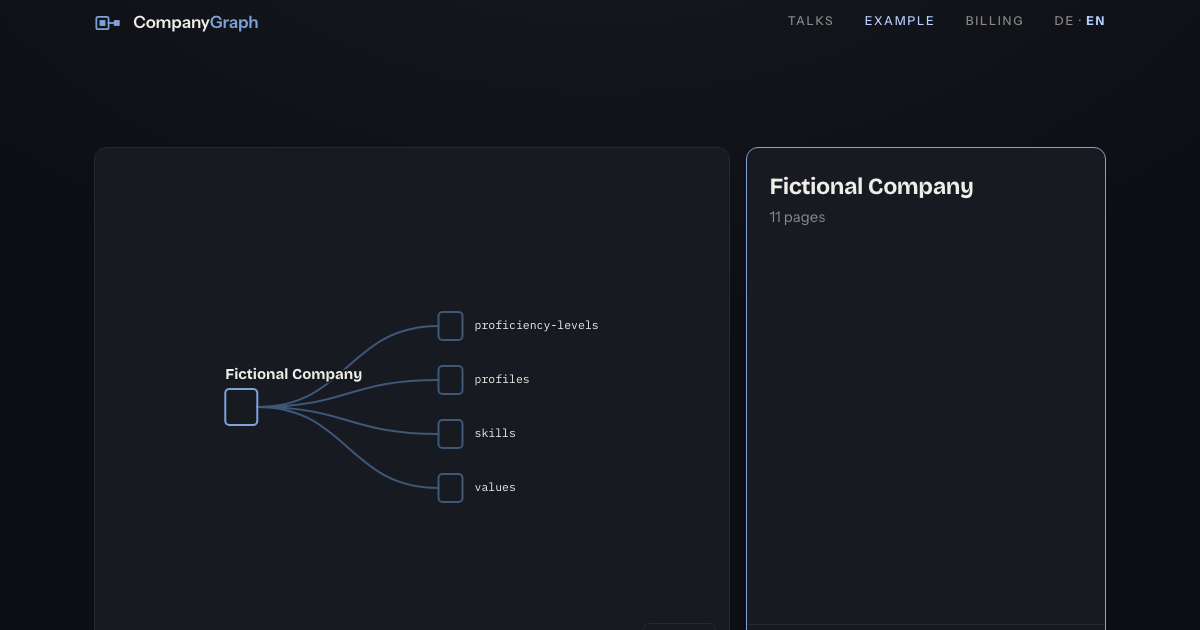
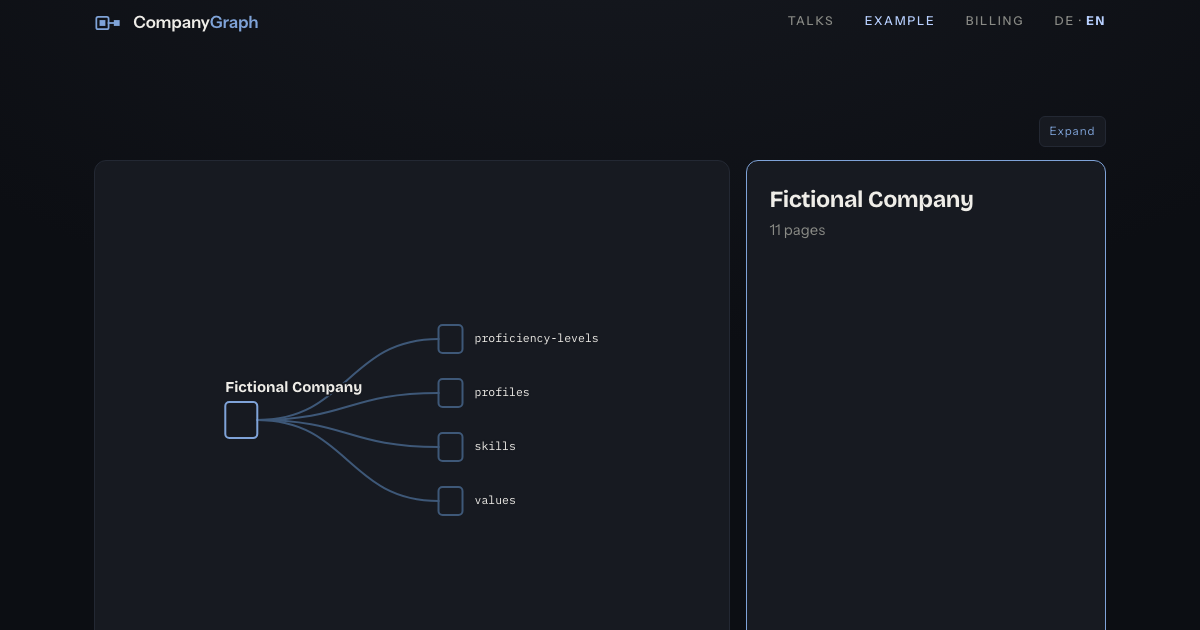
Expand the whole stage, not just the card

diff --git a/example/index.html b/example/index.html
@@ -141,6 +141,9 @@
   .rules p{color:var(--dim); font-size:1rem}
 
   .figure-section{margin-top:clamp(2rem,5vh,3.5rem)}
+  /* The path line and Expand share a row: the control belongs beside the thing it acts on,
+     not tucked in the card's footer — Expand opens the whole stage, not just the card. */
+  .stagehead{display:flex; align-items:baseline; justify-content:space-between; gap:1rem}
   .path{min-height:1.4em; font-size:.8rem; letter-spacing:.06em; color:var(--dim)}
   .path b{color:var(--c-firm); font-weight:600}
   .stage{margin-top:.8rem; height:clamp(520px,62vh,720px); display:grid;
@@ -156,8 +159,10 @@
   .cfoot{border-top:1px solid var(--rule); padding:.8rem 1.4rem; min-height:2.6rem;
          display:flex; align-items:center; justify-content:space-between; gap:1rem}
   .cfoot a{font-family:"Plex Mono",monospace; font-size:.78rem; letter-spacing:.06em; color:var(--c-mid); text-decoration:none}
-  /* A control, never mono — .expand sits beside the data-faced view-file link, styled like
-     .recentre because both are things you can do to the figure, not things it reports. */
+  /* A control, never mono — .expand sits at the end of the path line, styled like .recentre
+     because both are things you can do to the stage, not things it reports. It is visible at
+     every focus: the whole stage — path, canvas and card — is always worth expanding, unlike
+     the card alone, which had nothing to show for the root or a folder. */
   .expand{font:inherit; font-size:.72rem; letter-spacing:.08em; background:var(--raise);
           color:var(--c-mid); border:1px solid var(--rule); border-radius:6px;
           padding:.35rem .6rem; cursor:pointer; white-space:nowrap}
@@ -182,10 +187,17 @@
     .card{height:44vh; min-height:300px}
   }
 
-  /* The card, expanded. Same content, same .cbody/.cfoot rules, just large — a dialog in the
-     browser's own top layer, so it needs no z-index and Escape closes it for free. */
-  dialog.modal{width:min(960px,92vw); max-height:88vh; padding:0; margin:auto;
-               border:1.5px solid var(--c-mid); border-radius:12px;
+  /* The stage, expanded. Not a copy: Expand moves the same .stagehead and .stage elements
+     into this dialog, so the same #fig, #card and their handlers keep working, and moves
+     them back on close. A dialog in the browser's own top layer needs no z-index and closes
+     on Escape for free. */
+  /* max-width/max-height override the UA stylesheet's own dialog:modal clamp — Chromium's is
+     tighter than the 96vw/92vh this page asks for, and without this the dialog quietly
+     renders smaller than its own width/height rule says, defeating the point of Expand on a
+     narrow viewport, where every pixel back is a pixel the graph needed. */
+  dialog.modal{width:min(1500px,96vw); height:min(92vh,1000px);
+               max-width:96vw; max-height:92vh; padding:1rem 1.2rem 1.2rem;
+               margin:auto; border:1.5px solid var(--c-mid); border-radius:12px;
                background:var(--raise); color:var(--ink); flex-direction:column}
   dialog.modal[open]{display:flex}
   dialog.modal::backdrop{background:rgba(0,0,0,.6)}
@@ -199,7 +211,29 @@
                 font:inherit; font-size:1.3rem; line-height:1; background:none; border:0;
                 border-radius:6px; color:var(--dim); cursor:pointer}
   .modal .close:hover, .modal .close:focus-visible{color:var(--c-mid)}
-  .modal .cbody{padding:2.2rem 1.6rem 1.4rem}
+  /* Flex column so .stage takes whatever height .stagehead leaves — no hardcoded header
+     height to keep in step with the row's actual size. padding-right clears the × sitting in
+     the same corner, now that Expand (below) is the row's only other content. */
+  .modal .stagehead{flex:0 0 auto; padding-right:2.4rem}
+  /* Expand travels into the dialog with the rest of .stagehead, but there is nothing left
+     for it to do there — the × is the way out — and it would sit under the close button.
+     Turned into nothing rather than removed, so the same element still exists to move back. */
+  .modal .expand{display:none}
+  .modal .stage{flex:1 1 auto; min-height:0; height:auto; margin-top:.8rem;
+                grid-template-columns:minmax(0,1fr) 400px}
+  @media (max-width: 860px){
+    /* The fixed vh splits below are sized for the page, which can scroll; the dialog
+       cannot, so its two regions split the box's own remaining height instead — the card
+       at a fixed height that leaves it readable without dominating the box, the canvas
+       taking every pixel left over. A percentage split shrank the canvas below its
+       on-page size on a short viewport, which is Expand doing the opposite of its job. */
+    .modal .stage{display:flex; flex-direction:column; height:auto}
+    .modal .canvas{height:auto; flex:1 1 auto; min-height:200px}
+    .modal .card{height:auto; flex:0 0 230px; min-height:0}
+    /* On a phone .shell's own 7vw side padding is already narrow, so the dialog needs
+       tighter chrome of its own just to come out ahead on width, not merely on height. */
+    dialog.modal{width:98vw; max-width:98vw; padding:.7rem .8rem .8rem}
+  }
   /* figure tokens. No @media (prefers-reduced-motion) block here on purpose: every node is
      placed by its own transform attribute, and a blanket `transform:none !important` would
      not cancel a displacement, it would replace the attribute-derived position and collapse
@@ -282,8 +316,11 @@
     </div>
 
     <section class="figure-section">
-      <p class="path mono" id="path"></p>
-      <div class="stage">
+      <div class="stagehead" id="stagehead">
+        <p class="path mono" id="path"></p>
+        <button type="button" class="expand" id="expand" data-de="Vergrössern">Expand</button>
+      </div>
+      <div class="stage" id="stage">
         <div class="canvas">
           <svg id="fig" role="group" aria-labelledby="figcap"></svg>
           <button class="recentre" id="recentre" type="button" data-de="zentrieren">recentre</button>
@@ -292,18 +329,16 @@
           <div class="cbody" id="cbody"></div>
           <div class="cfoot" id="cfoot">
             <span id="cfootlink"></span>
-            <button type="button" class="expand" id="expand" data-de="Vergrössern">Expand</button>
           </div>
         </aside>
       </div>
       <p class="figcap" id="figcap" data-de="Ein durchgezogener Strich heisst <b>besitzt</b>. Ein gestrichelter heisst <b>verweist per Namen auf</b>. Ein umrandeter Kasten ist ein Ordner, ein gefülltes Quadrat eine Seite. Anklicken rückt in die Mitte.">A solid line means <b>owns</b>. A dashed line means <b>refers to by name</b>. An outlined box is a folder, a filled square is a page. Click to bring it to the centre.</p>
 
-      <!-- The card, full size. Same rendering, larger container — a dialog so Escape and the
-           browser's own top layer come for free; the URL does not change when it opens. -->
-      <dialog id="cardmodal" class="modal" aria-labelledby="modal-title">
+      <!-- The stage, expanded. Not a copy: Expand moves .stagehead and .stage in here — the
+           same #path, #fig and #card — and moves them back on close. The URL does not
+           change when it opens. -->
+      <dialog id="stagemodal" class="modal" aria-label="The example, expanded" data-de-aria="Das Beispiel, vergrössert">
         <button type="button" class="close" id="modalclose" aria-label="Close" data-de-aria="Schliessen">×</button>
-        <div class="cbody" id="mbody"></div>
-        <div class="cfoot" id="mfoot"></div>
       </dialog>
     </section>
 
@@ -354,6 +389,10 @@
   // does need German, and that lives in the label, not the innerHTML the loop above swaps.
   var modalClose = document.getElementById("modalclose");
   var modalCloseEnAria = modalClose ? modalClose.getAttribute("aria-label") : null;
+  // Same reasoning for the dialog itself: its aria-label names the whole stage, not markup
+  // the loop above ever sees.
+  var stageModal = document.getElementById("stagemodal");
+  var stageModalEnAria = stageModal ? stageModal.getAttribute("aria-label") : null;
 
   var UI = {
     de:{ title:"Beispiel — CompanyGraph",
@@ -369,6 +408,7 @@
     document.getElementById("lde").classList.toggle("on", lang === "de");
     document.getElementById("len").classList.toggle("on", lang === "en");
     if (modalClose) modalClose.setAttribute("aria-label", lang === "de" ? modalClose.getAttribute("data-de-aria") : modalCloseEnAria);
+    if (stageModal) stageModal.setAttribute("aria-label", lang === "de" ? stageModal.getAttribute("data-de-aria") : stageModalEnAria);
     document.documentElement.lang = lang;
   }
   function toggle(){ lang = (lang === "de") ? "en" : "de"; remember(lang); applyLang(); }
@@ -568,12 +608,15 @@
   var scene = svg.append("g");
   var gLink = scene.append("g"), gBand = scene.append("g"), gNode = scene.append("g");
   var pathLine = document.getElementById("path");
-  // cfoot is the link-only span beside the persistent #expand button, not the whole footer
-  // row — a render clears and refills it, and the button next to it is not the render's to
-  // touch. The modal has no such button, so its own foot div is the whole clearable target.
   var cbody = document.getElementById("cbody"), cfoot = document.getElementById("cfootlink");
-  var mbody = document.getElementById("mbody"), mfoot = document.getElementById("mfoot");
-  var modal = document.getElementById("cardmodal"), expandBtn = document.getElementById("expand");
+  var modal = document.getElementById("stagemodal"), expandBtn = document.getElementById("expand");
+  // Expand moves the stage itself into the dialog rather than rendering a copy into it, so
+  // every handler bound to #fig, #card and its links keeps working unchanged. figcapEl never
+  // moves, so it is the fixed anchor both elements are reinserted before on close — that
+  // makes the restore order-independent instead of relying on each other's remembered
+  // nextSibling, which the move itself would invalidate.
+  var stageHead = document.getElementById("stagehead"), stageEl = document.getElementById("stage");
+  var stageHome = stageHead.parentNode, figcapEl = document.getElementById("figcap");
   var reduce = window.matchMedia ? window.matchMedia("(prefers-reduced-motion: reduce)") : null;
   var first = true;
   function dur(){ return (first || (reduce && reduce.matches)) ? 0 : 400; }
@@ -713,11 +756,11 @@
   }
   function resolve(text){ for (var i = 0; i < data.entities.length; i++) if (data.entities[i].name === text) return data.entities[i].id; return null; }
 
-  // Renders the focused node into a given (body, foot) pair — the card's own, and, when the
-  // modal is open, the modal's — so a .go link clicked inside either updates both in place.
-  // titleId, when given, is set on the h3 that carries the focus's name: only the modal
-  // passes one, since it is the one heading the dialog's aria-labelledby points at.
-  function renderInto(n, bodyEl, footEl, titleId){
+  // Renders the focused node into the card's (body, foot) pair. Expand no longer copies this
+  // into a second element — it moves the card itself into the dialog — so there is exactly
+  // one target, and a .go link clicked inside it updates the same #cbody/#cfoot whether the
+  // dialog is open or not.
+  function renderInto(n, bodyEl, footEl){
     clear(bodyEl); clear(footEl);
     if (n.kind !== "entity") {
       // Not empty, and the same shape as an entity's card so the panel never jumps: the
@@ -728,18 +771,14 @@
         bodyEl.appendChild(h("p", pagesUnder(n) + " " + t("pages"), "empty"));
       } else {
         // The root's label is a name, not a path, so it is set in prose and carries the card.
-        var rh3 = h("h3", n.label);
-        if (titleId) rh3.id = titleId;
-        bodyEl.appendChild(rh3);
+        bodyEl.appendChild(h("h3", n.label));
         bodyEl.appendChild(h("p", pagesUnder(n) + " " + t("pages"), "empty"));
       }
       return;
     }
     var e = n.entity;
     bodyEl.appendChild(h("div", e.type + " · " + e.id, "eyebrow"));
-    var eh3 = h("h3", e.name);
-    if (titleId) eh3.id = titleId;
-    bodyEl.appendChild(eh3);
+    bodyEl.appendChild(h("h3", e.name));
     if (e.tagline) bodyEl.appendChild(h("p", e.tagline, "tag"));
     var keys = Object.keys(e.fields);
     if (keys.length) {
@@ -790,27 +829,39 @@
     footEl.appendChild(a);
   }
 
-  // The card always renders. The modal only renders when it is already open — a .go link or
-  // a language switch reaches it through here, never by opening it. If the focus stops being
-  // an entity while the modal is open (only a hashchange can do that; a .go link cannot),
-  // there is nothing left to expand, so the modal closes itself.
-  function showCard(n){
-    renderInto(n, cbody, cfoot, null);
-    expandBtn.style.display = n.kind === "entity" ? "" : "none";
-    if (n.kind !== "entity") { if (modal.open) modal.close(); return; }
-    if (modal.open) renderInto(n, mbody, mfoot, "modal-title");
+  // The card always renders in place — there is nothing else to keep in sync, since the
+  // dialog holds the same #card, not a copy of it.
+  function showCard(n){ renderInto(n, cbody, cfoot); }
+
+  // Re-fit after the dialog has actually laid out: showModal() changes the box #fig sits in,
+  // but getBoundingClientRect() inside render()/fit() won't see the new size until the
+  // browser has done that layout pass, hence two rAFs rather than calling render() inline.
+  function refit(){
+    requestAnimationFrame(function(){
+      requestAnimationFrame(function(){ if (focused) render(); });
+    });
   }
 
   expandBtn.addEventListener("click", function(){
-    renderInto(focused, mbody, mfoot, "modal-title");
+    modal.append(stageHead, stageEl);
     modal.showModal();
+    refit();
   });
   document.getElementById("modalclose").addEventListener("click", function(){ modal.close(); });
   // Escape is native to <dialog> and needs no handler here. A click on the backdrop lands
   // with the dialog itself as the event target — nothing else is there to hit — which is
   // what tells it apart from a click on the content the dialog contains.
   modal.addEventListener("click", function(ev){ if (ev.target === modal) modal.close(); });
-  modal.addEventListener("close", function(){ expandBtn.focus(); });
+  // One handler for every way the dialog closes — ×, Escape, backdrop click — because all
+  // three end in the native "close" event. figcapEl is the fixed point neither element ever
+  // leaves: inserting both before it restores stagehead-then-stage regardless of what moved
+  // in between.
+  modal.addEventListener("close", function(){
+    stageHome.insertBefore(stageHead, figcapEl);
+    stageHome.insertBefore(stageEl, figcapEl);
+    refit();
+    expandBtn.focus();
+  });
 
   // ── focus ─────────────────────────────────────────────────────────────────────────────
   function focus(n){

diff --git a/docs/superpowers/specs/2026-08-25-example-page-design.md b/docs/superpowers/specs/2026-08-25-example-page-design.md
@@ -160,10 +160,10 @@ whose resolving cells are links that refocus. *View file* — the path at the pi
 GitHub, opened in the same tab like every link on this site — is pinned to the card's footer. When the root or a folder is focused the card is
 not empty: one line says what is focused and how many pages it holds, read from the block.
 
-**The card, expanded.** An *Expand* control on the card opens the same content in a modal —
-a large card over the page, closed by its × button, Escape or a click outside. Links inside
-it refocus the graph behind and update the modal in place. The URL does not change; the
-control is absent when the root or a folder is focused.
+**The stage, expanded.** An *Expand* control beside the path line opens the whole stage —
+path, canvas and card — in a modal that fills the window, closed by its × button, Escape or
+a click outside. It is the same stage moved, not a copy: clicks, links, the hash and
+*recentre* keep working, and the graph re-fits to the larger canvas.
 
 **Tokens.** Folder boxes outlined `--c-weak`; entity squares filled `--c-firm`; the focus, and
 anything clickable on hover or focus, `--c-mid`; owns-lines solid; reference lines dashed in
